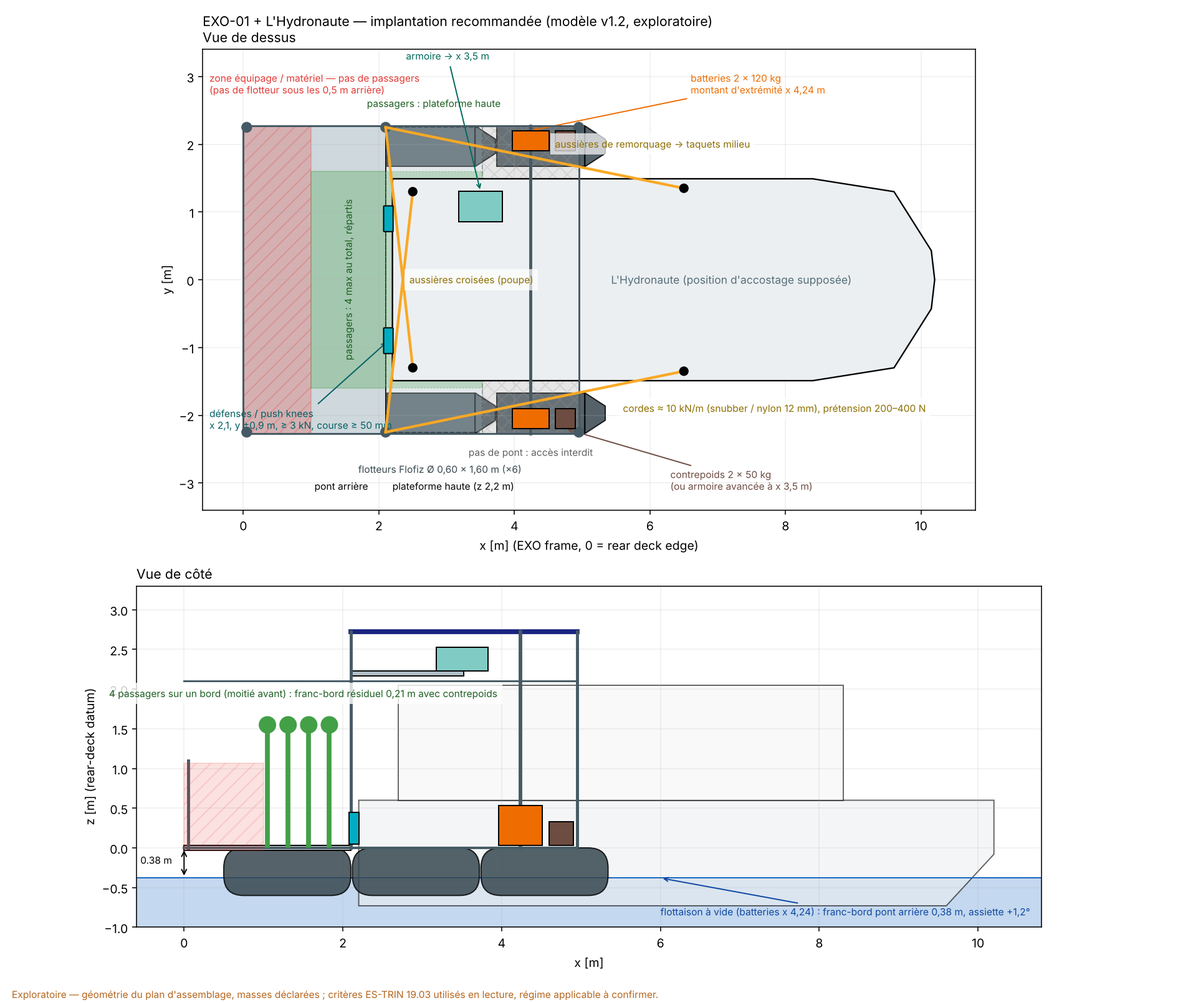
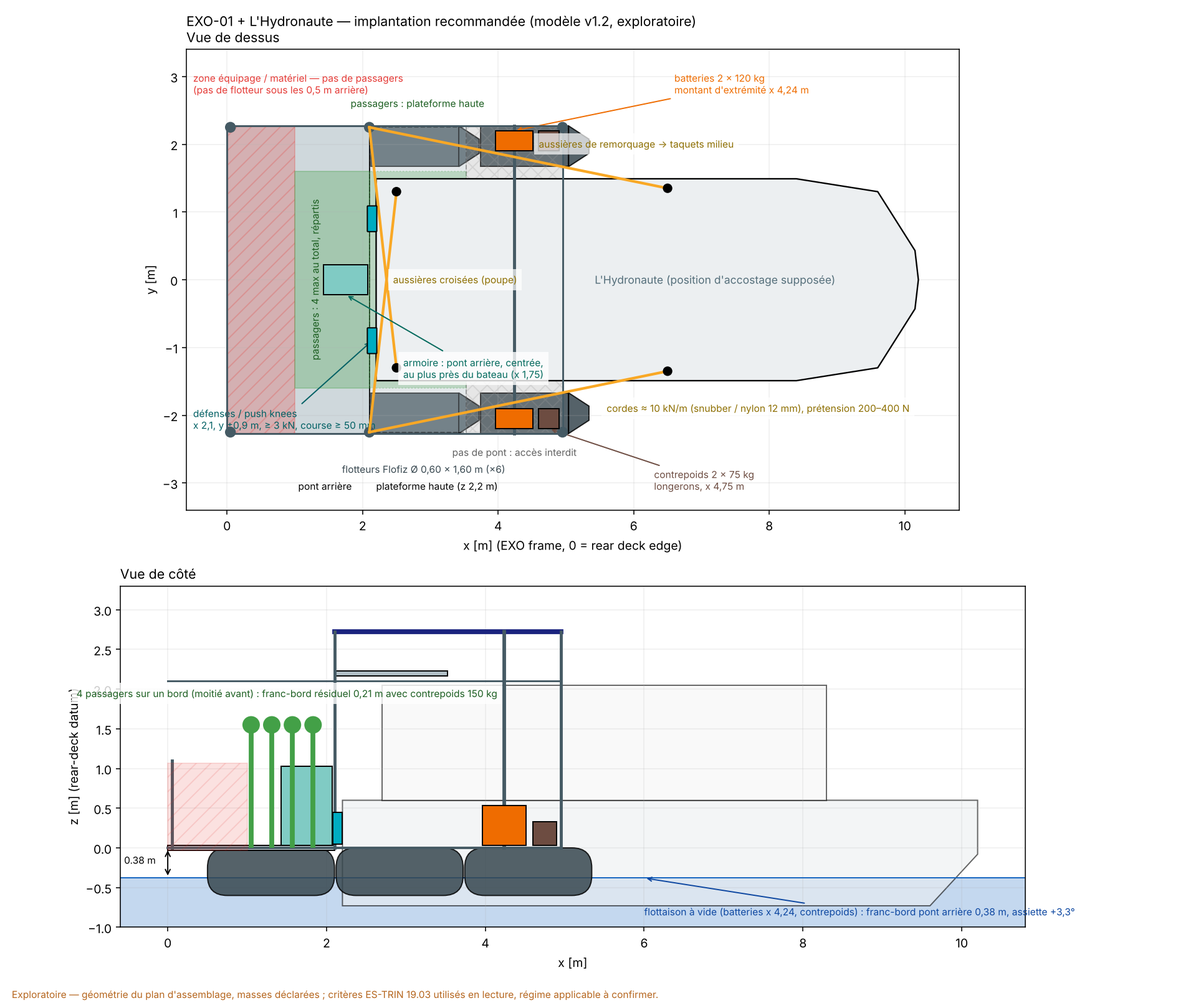
Layout: cabinet kept on the rear deck (centred, forward edge x 1.75); counterweight 2 x 75 kg -> 4 passengers >= 0.214 m
Claude-Session: https://claude.ai/code/session_01Dca2tFRhLZ7fJ291hADNnP

diff --git a/docs/website/preview.html b/docs/website/preview.html
@@ -82,7 +82,7 @@ figcaption { font-size: 13px; color: var(--muted); margin-top: 8px; max-width: 6
 <h3>5. Propulsion : ordre de grandeur seulement</h3>
 <p>À 100 % des deux pods, l'ensemble EXO-01 + L'Hydronaute atteindrait ≈ 2,8 m/s (10 km/h), avec 870 N transmis au bateau par les aussières. Ces vitesses sont des <strong>bornes supérieures</strong> : le modèle suppose la poussée au point fixe constante avec la vitesse, ce qui est faux pour un propulseur à hélice ; la courbe poussée–vitesse des pods n'est pas connue.</p>
 <h2>Implantation recommandée (v1.2) : aussières, défenses, zones passagers</h2>
-<figure><img alt="Implantation recommandée" src="img/14_layout_fr.webp" loading="lazy"><figcaption>Vue de dessus et de côté : défenses de poupe, aussières croisées et de remorquage, zone équipage à l'arrière, zone passagers, batteries au montant d'extrémité, contrepoids. Géométrie du plan d'assemblage, position d'accostage supposée.</figcaption></figure>
+<figure><img alt="Implantation recommandée" src="img/14_layout_fr.webp" loading="lazy"><figcaption>Vue de dessus et de côté : défenses de poupe, aussières croisées et de remorquage, zone équipage à l'arrière, zone passagers, armoire centrée au bord avant du pont arrière, batteries au montant d'extrémité, contrepoids. Géométrie du plan d'assemblage, position d'accostage supposée.</figcaption></figure>
 <p>L'étude d'amarrage (121 configurations : 6 arrangements × 4 raideurs × 5 prétensions + un cas rigide ; amarré, poussée 100 %, remorquage 100 % ; trois houles régulières, calcul linéaire puis domaine temporel) dit, dans ses hypothèses :</p>
 <ul>
 <li><strong>La poussée passe en compression.</strong> Deux défenses / push knees au bord du pont arrière (x 2,1 m, y ±0,9 m, hauteur du tableau) ferment la boucle poussée–remorquage quelle que soit la corde, avec 1–20 mm de course ; des aussières seules (diagonales) le font aussi, mais seulement à k ≥ 10 kN/m et avec 20–45 mm de glissement du bateau dans un espace de 60 mm. Charge statique par défense à pleine poussée : 0,3–0,6 kN.</li>
@@ -90,7 +90,7 @@ figcaption { font-size: 13px; color: var(--muted); margin-top: 8px; max-width: 6
 <li><strong>Raideur plutôt qu'« amortisseur » : ce que l'étude montre.</strong> Les éléments sont des ressorts sans amortissement ; les pics de reprise croissent avec la raideur de la corde (2 kN/m : 0,5–1,3 kN ; 10 kN/m : 0,6–1,5 kN ; 50 kN/m : 1,5–3 kN ; 200 kN/m : 3–5 kN dans la même houle), mais des cordes très souples laissent le bateau prendre de l'élan contre les défenses (2–5 kN). Direction : cordes ≈ 10 kN/m, défenses fermes ≈ 50 kN/m, prétension 200–400 N. Le choix d'un amortisseur réel demande un modèle avec amortissement, course et réaction maximale — étape suivante.</li>
 <li><strong>Dimensionnement indicatif</strong> : cordes 12 mm polyester/nylon avec snubbers (charge de travail 1–1,5 kN, pics 2–4,5 kN en 0,5 m de houle), taquets et montants ≥ 5 kN, défenses ≥ 3 kN avec ≥ 50 mm de course.</li>
 </ul>
-<p><strong>Zones passagers et capacité (EXO-01 seul, 75 kg par personne, lecture ES-TRIN 19.03 : gîte + vent ≤ 12°, franc-bord résiduel ≥ 0,20 m).</strong> La gîte n'est jamais limitante (8 personnes sur un bord : 4° ; vent 0,25 kN/m² sur 6 m² supposés : 0,7°). C'est le franc-bord du pont arrière qui limite : chaque passager enfonce la plateforme d'≈ 15 mm, plus l'assiette. Avec les batteries du plan, aucun passager ne satisfait le critère ; batteries avancées, 1–2 ; avec l'implantation ci-dessus — <strong>arrière du pont fermé aux passagers (pas de flotteur sous les 0,5 m arrière), batteries au montant d'extrémité, armoire avancée à x 3,5 m, contrepoids 2 × 50 kg à x 4,75 m</strong> — <strong>4 passagers</strong> n'importe où dans les zones autorisées gardent ≥ 0,216 m (6 répartis sur les deux ponts : 0,246 m). Contrepartie : +3,3° de piqué à vide et les flotteurs avant deviennent la limite si 4 personnes se mettent d'un même bord sur la plateforme haute (0,17 m). Sous le franc-bord minimal de 0,30 m de l'art. 19.04, aucune configuration ne dépasse 1 passager : le régime applicable (bateau à passagers, engin flottant, autre) change l'évaluation et reste à établir avec le service instructeur. Rien de tout cela ne remplace la pesée, l'essai de stabilité et le relevé des flotteurs.</p>
+<p><strong>Zones passagers et capacité (EXO-01 seul, 75 kg par personne, lecture ES-TRIN 19.03 : gîte + vent ≤ 12°, franc-bord résiduel ≥ 0,20 m).</strong> La gîte n'est jamais limitante (8 personnes sur un bord : 4° ; vent 0,25 kN/m² sur 6 m² supposés : 0,7°). C'est le franc-bord du pont arrière qui limite : chaque passager enfonce la plateforme d'≈ 15 mm, plus l'assiette. Avec les batteries du plan, aucun passager ne satisfait le critère ; batteries avancées, 1–2 ; avec l'implantation ci-dessus — <strong>arrière du pont fermé aux passagers (pas de flotteur sous les 0,5 m arrière), batteries au montant d'extrémité, armoire sur le pont arrière, centrée et au plus près du bateau (x 1,75 m), contrepoids 2 × 75 kg à x 4,75 m sur les longerons</strong> — <strong>4 passagers</strong> n'importe où dans les zones autorisées gardent ≥ 0,214 m (6 répartis sur les deux ponts : 0,245 m) ; 150 kg de lest, c'est le poids de deux passagers : plus de flottabilité arrière ferait mieux. Contrepartie : +3,3° de piqué à vide et les flotteurs avant deviennent la limite si 4 personnes se mettent d'un même bord sur la plateforme haute (0,17 m). Sous le franc-bord minimal de 0,30 m de l'art. 19.04, aucune configuration ne dépasse 1 passager : le régime applicable (bateau à passagers, engin flottant, autre) change l'évaluation et reste à établir avec le service instructeur. Rien de tout cela ne remplace la pesée, l'essai de stabilité et le relevé des flotteurs.</p>
 <h2>Ce que le modèle ne dit pas</h2>
 <ul>
 <li><strong>Les masses et leurs positions sont déclarées, pas pesées.</strong> Toute l'assiette repose sur le décalage de 0,6 m entre centre de masse et centre de flottabilité.</li>
@@ -156,7 +156,7 @@ figcaption { font-size: 13px; color: var(--muted); margin-top: 8px; max-width: 6
 <h3>5. Propulsion: order of magnitude only</h3>
 <p>At 100 % of both pods, EXO-01 + L'Hydronaute would reach ≈ 2.8 m/s (10 km/h), with 870 N carried to the boat through the lines. These speeds are <strong>upper bounds</strong>: the model assumes the bollard thrust stays constant with speed, which is false for a propeller; the pods' thrust–speed curve is not known.</p>
 <h2>Recommended layout (v1.2): lines, fenders, passenger zones</h2>
-<figure><img alt="Recommended layout" src="img/14_layout_en.webp" loading="lazy"><figcaption>Top and side view: stern fenders, crossed and tow lines, crew zone aft, passenger zone, batteries at the end upright, counterweight. Assembly-drawing geometry, assumed berth.</figcaption></figure>
+<figure><img alt="Recommended layout" src="img/14_layout_en.webp" loading="lazy"><figcaption>Top and side view: stern fenders, crossed and tow lines, crew zone aft, passenger zone, cabinet centred at the forward edge of the rear deck, batteries at the end upright, counterweight. Assembly-drawing geometry, assumed berth.</figcaption></figure>
 <p>The mooring study (121 configurations: 6 arrangements × 4 stiffnesses × 5 pretensions + one rigid case; moored, push 100 %, tow 100 %; three regular waves, linear then time domain) says, within its assumptions:</p>
 <ul>
 <li><strong>Push goes through compression.</strong> Two fenders / push knees at the rear-deck edge (x 2.1 m, y ±0.9 m, transom height) close the push–tow loop whatever the rope, with 1–20 mm of travel; lines alone (diagonals) do it too, but only at k ≥ 10 kN/m and with 20–45 mm of boat travel into a 60 mm gap. Static load per fender at full thrust: 0.3–0.6 kN.</li>
@@ -164,7 +164,7 @@ figcaption { font-size: 13px; color: var(--muted); margin-top: 8px; max-width: 6
 <li><strong>Compliance rather than "shock absorbers": what the study shows.</strong> The elements are undamped springs; snatch peaks grow with rope stiffness (2 kN/m: 0.5–1.3 kN; 10 kN/m: 0.6–1.5 kN; 50 kN/m: 1.5–3 kN; 200 kN/m: 3–5 kN in the same waves), but very soft lines let the boat gather speed into the fenders (2–5 kN). Direction: lines ≈ 10 kN/m, firm fenders ≈ 50 kN/m, pretension 200–400 N. Choosing an actual damper needs a model with damping, stroke and peak reaction — next step.</li>
 <li><strong>Indicative sizing</strong>: 12 mm polyester/nylon lines with snubbers (working load 1–1.5 kN, peaks 2–4.5 kN in 0.5 m waves), cleats and uprights ≥ 5 kN, fenders ≥ 3 kN with ≥ 50 mm stroke.</li>
 </ul>
-<p><strong>Passenger zones and capacity (EXO-01 alone, 75 kg per person, ES-TRIN 19.03 reading: heel + wind ≤ 12°, residual freeboard ≥ 0.20 m).</strong> Heel never limits (8 people on one side: 4°; wind 0.25 kN/m² on an assumed 6 m²: 0.7°). The rear-deck freeboard does: each passenger sinks the platform ≈ 15 mm, plus the trim. With the drawing's batteries no passenger meets the criterion; batteries forward, 1–2; with the layout above — <strong>aft of the rear deck closed to passengers (no float under the aft 0.5 m), batteries at the end upright, cabinet moved to x 3.5 m, 2 × 50 kg counterweight at x 4.75 m</strong> — <strong>4 passengers</strong> anywhere in the allowed zones keep ≥ 0.216 m (6 spread over both decks: 0.246 m). The price: +3.3° bow-down trim light, and the forward floats become the limit if 4 people crowd one side of the upper platform (0.17 m). Under the 0.30 m minimum freeboard of art. 19.04 no configuration exceeds 1 passenger: the applicable regime (passenger vessel, floating equipment, other) changes the assessment and has to be established with the service instructeur. None of this replaces the weighing, the inclining test and the float survey.</p>
+<p><strong>Passenger zones and capacity (EXO-01 alone, 75 kg per person, ES-TRIN 19.03 reading: heel + wind ≤ 12°, residual freeboard ≥ 0.20 m).</strong> Heel never limits (8 people on one side: 4°; wind 0.25 kN/m² on an assumed 6 m²: 0.7°). The rear-deck freeboard does: each passenger sinks the platform ≈ 15 mm, plus the trim. With the drawing's batteries no passenger meets the criterion; batteries forward, 1–2; with the layout above — <strong>aft of the rear deck closed to passengers (no float under the aft 0.5 m), batteries at the end upright, cabinet on the rear deck, centred and as close to the boat as possible (x 1.75 m), 2 × 75 kg counterweight at x 4.75 m on the side rails</strong> — <strong>4 passengers</strong> anywhere in the allowed zones keep ≥ 0.214 m (6 spread over both decks: 0.245 m); 150 kg of ballast is the weight of two passengers — more aft buoyancy would do better. The price: +3.3° bow-down trim light, and the forward floats become the limit if 4 people crowd one side of the upper platform (0.17 m). Under the 0.30 m minimum freeboard of art. 19.04 no configuration exceeds 1 passenger: the applicable regime (passenger vessel, floating equipment, other) changes the assessment and has to be established with the service instructeur. None of this replaces the weighing, the inclining test and the float survey.</p>
 <h2>What the model does not say</h2>
 <ul>
 <li><strong>Masses and positions are declared, not weighed.</strong> The whole trim story rests on the 0.6 m offset between centre of mass and centre of buoyancy.</li>

diff --git a/scripts/draw_layout.py b/scripts/draw_layout.py
@@ -18,16 +18,16 @@ OUT = ROOT / "docs" / "website" / "img"
 T = {
     "fr": dict(title="EXO-01 + L'Hydronaute — implantation recommandée (modèle v1.2, exploratoire)", top="Vue de dessus", side="Vue de côté",
                deck="pont arrière", upper="plateforme haute (z 2,2 m)", nodeck="pas de pont : accès interdit", crew="zone équipage / matériel — pas de passagers\n(pas de flotteur sous les 0,5 m arrière)",
-               pax_rear="passagers : 4 max au total, répartis", pax_upper="passagers : plateforme haute", batt="batteries 2 × 120 kg\nmontant d'extrémité x 4,24 m", cw="contrepoids 2 × 50 kg\n(ou armoire avancée à x 3,5 m)",
-               cab="armoire → x 3,5 m", fender="défenses / push knees\nx 2,1, y ±0,9 m, ≥ 3 kN, course ≥ 50 mm", cross="aussières croisées (poupe)", tow="aussières de remorquage → taquets milieu",
+               pax_rear="passagers : 4 max au total, répartis", pax_upper="passagers : plateforme haute", batt="batteries 2 × 120 kg\nmontant d'extrémité x 4,24 m", cw="contrepoids 2 × 75 kg\nlongerons, x 4,75 m",
+               cab="armoire : pont arrière, centrée,\nau plus près du bateau (x 1,75)", fender="défenses / push knees\nx 2,1, y ±0,9 m, ≥ 3 kN, course ≥ 50 mm", cross="aussières croisées (poupe)", tow="aussières de remorquage → taquets milieu",
                lines="cordes ≈ 10 kN/m (snubber / nylon 12 mm), prétension 200–400 N", boat="L'Hydronaute (position d'accostage supposée)", floats="flotteurs Flofiz Ø 0,60 × 1,60 m (×6)",
-               wl="flottaison à vide (batteries x 4,24) : franc-bord pont arrière 0,38 m, assiette +1,2°", pax4="4 passagers sur un bord (moitié avant) : franc-bord résiduel 0,21 m avec contrepoids", note="Exploratoire — géométrie du plan d'assemblage, masses déclarées ; critères ES-TRIN 19.03 utilisés en lecture, régime applicable à confirmer."),
+               wl="flottaison à vide (batteries x 4,24, contrepoids) : franc-bord pont arrière 0,38 m, assiette +3,3°", pax4="4 passagers sur un bord (moitié avant) : franc-bord résiduel 0,21 m avec contrepoids 150 kg", note="Exploratoire — géométrie du plan d'assemblage, masses déclarées ; critères ES-TRIN 19.03 utilisés en lecture, régime applicable à confirmer."),
     "en": dict(title="EXO-01 + L'Hydronaute — recommended layout (model v1.2, exploratory)", top="Top view", side="Side view",
                deck="rear deck", upper="upper platform (z 2.2 m)", nodeck="no deck: no access", crew="crew / equipment zone — no passengers\n(no float under the aft 0.5 m)",
-               pax_rear="passengers: 4 max in total, spread", pax_upper="passengers: upper platform", batt="batteries 2 × 120 kg\nend upright x 4.24 m", cw="counterweight 2 × 50 kg\n(or cabinet moved to x 3.5 m)",
-               cab="cabinet → x 3.5 m", fender="fenders / push knees\nx 2.1, y ±0.9 m, ≥ 3 kN, stroke ≥ 50 mm", cross="crossed stern lines", tow="tow lines → midship cleats",
+               pax_rear="passengers: 4 max in total, spread", pax_upper="passengers: upper platform", batt="batteries 2 × 120 kg\nend upright x 4.24 m", cw="counterweight 2 × 75 kg\nside rails, x 4.75 m",
+               cab="cabinet: rear deck, centred,\nas close to the boat as possible (x 1.75)", fender="fenders / push knees\nx 2.1, y ±0.9 m, ≥ 3 kN, stroke ≥ 50 mm", cross="crossed stern lines", tow="tow lines → midship cleats",
                lines="lines ≈ 10 kN/m (snubber / 12 mm nylon), pretension 200–400 N", boat="L'Hydronaute (assumed berth)", floats="Flofiz floats Ø 0.60 × 1.60 m (×6)",
-               wl="light-ship waterline (batteries x 4.24): rear-deck freeboard 0.38 m, trim +1.2°", pax4="4 passengers on one side (forward half): residual freeboard 0.21 m with counterweight", note="Exploratory — assembly-drawing geometry, declared masses; ES-TRIN 19.03 figures used as a reading grid, applicable regime to be confirmed."),
+               wl="light-ship waterline (batteries x 4.24, counterweight): rear-deck freeboard 0.38 m, trim +3.3°", pax4="4 passengers on one side (forward half): residual freeboard 0.21 m with 150 kg counterweight", note="Exploratory — assembly-drawing geometry, declared masses; ES-TRIN 19.03 figures used as a reading grid, applicable regime to be confirmed."),
 }
 BX = 2.2          # boat stern in the EXO frame
 C = dict(deck="#cfd8dc", upper="#b0bec5", float="#37474f", boat="#eceff1", pax="#43a047", crew="#e53935", nodeck="#9e9e9e", batt="#ef6c00", cw="#6d4c41", fender="#00acc1", line="#f9a825", frame="#455a64")
@@ -59,7 +59,7 @@ for lang, t in T.items():
     ax.add_patch(Rectangle((2.1, -1.6), 1.425, 3.2, facecolor=C["pax"], alpha=0.25, edgecolor=C["pax"], ls=":", zorder=1.6))
     ax.add_patch(Rectangle((3.525, -2.2485), 1.425, 4.497, facecolor=C["nodeck"], alpha=0.25, hatch="xx", edgecolor=C["nodeck"], zorder=1.5))
     ax.text(-0.5, 2.75, t["crew"], ha="left", fontsize=8, color=C["crew"], rotation=0)
-    ax.text(1.55, 0.0, t["pax_rear"], ha="center", va="center", fontsize=8, color="#1b5e20", zorder=4, rotation=90)
+    ax.text(1.3, 0.0, t["pax_rear"], ha="center", va="center", fontsize=8, color="#1b5e20", zorder=4, rotation=90)
     ax.text(2.81, 2.55, t["pax_upper"], ha="center", fontsize=8, color="#1b5e20")
     ax.text(4.24, -2.6, t["nodeck"], ha="center", fontsize=8, color="#616161")
     ax.text(1.05, -3.1, t["deck"], fontsize=8); ax.text(2.2, -3.1, t["upper"], fontsize=8)
@@ -75,8 +75,8 @@ for lang, t in T.items():
         ax.add_patch(Rectangle((4.75 - 0.15, y - 0.15), 0.30, 0.30, facecolor=C["cw"], edgecolor="k", zorder=6))
     ax.annotate(t["batt"], (4.24, 2.2), (6.6, 2.75), fontsize=8, color=C["batt"], arrowprops=dict(arrowstyle="->", color=C["batt"]))
     ax.annotate(t["cw"], (4.75, -2.2), (6.3, -3.1), fontsize=8, color=C["cw"], arrowprops=dict(arrowstyle="->", color=C["cw"]))
-    ax.add_patch(Rectangle((3.5 - 0.325, 1.08 - 0.225), 0.65, 0.45, facecolor="#80cbc4", edgecolor="k", zorder=6))
-    ax.annotate(t["cab"], (3.5, 1.3), (2.4, 3.25), fontsize=8, color="#00695c", arrowprops=dict(arrowstyle="->", color="#00695c"))
+    ax.add_patch(Rectangle((1.75 - 0.325, -0.225), 0.65, 0.45, facecolor="#80cbc4", edgecolor="k", zorder=6))
+    ax.annotate(t["cab"], (1.75, -0.22), (2.6, -1.45), fontsize=8, color="#00695c", arrowprops=dict(arrowstyle="->", color="#00695c"), bbox=dict(fc="white", ec="none", alpha=0.8), zorder=9)
     # fenders
     for y in (-0.9, 0.9):
         ax.add_patch(FancyBboxPatch((2.08, y - 0.18), 0.12, 0.36, boxstyle="round,pad=0.01", facecolor=C["fender"], edgecolor="k", zorder=7))
@@ -116,7 +116,7 @@ for lang, t in T.items():
     ax2.add_patch(Rectangle((2.08, 0.05), 0.12, 0.4, facecolor=C["fender"], edgecolor="k", zorder=5))
     ax2.add_patch(Rectangle((4.24 - 0.275, 0.03), 0.55, 0.5, facecolor=C["batt"], edgecolor="k", zorder=5))
     ax2.add_patch(Rectangle((4.75 - 0.15, 0.03), 0.30, 0.3, facecolor=C["cw"], edgecolor="k", zorder=5))
-    ax2.add_patch(Rectangle((3.5 - 0.325, 2.23), 0.65, 0.3, facecolor="#80cbc4", edgecolor="k", zorder=5))
+    ax2.add_patch(Rectangle((1.75 - 0.325, 0.03), 0.65, 1.0, facecolor="#80cbc4", edgecolor="k", zorder=5))
     for i in range(4):
         x = 1.05 + 0.26 * i
         ax2.add_patch(Circle((x, 1.55), 0.11, facecolor=C["pax"], zorder=6)); ax2.plot([x, x], [0.03, 1.44], color=C["pax"], lw=4, zorder=6)

diff --git a/docs/website/exo01-simulation.fr.md b/docs/website/exo01-simulation.fr.md
@@ -75,7 +75,7 @@ Avec 100 N de prétension, **toutes les aussières se détendent à chaque cycle
 ## Implantation recommandée (v1.2) : aussières, défenses, zones passagers
 
 ![Implantation recommandée](img/web/14_layout_fr.webp)
-*Vue de dessus et de côté : défenses de poupe, aussières croisées et de remorquage, zone équipage à l'arrière, zone passagers, batteries au montant d'extrémité, contrepoids. Géométrie du plan d'assemblage, position d'accostage supposée.*
+*Vue de dessus et de côté : défenses de poupe, aussières croisées et de remorquage, zone équipage à l'arrière, zone passagers, armoire centrée au bord avant du pont arrière, batteries au montant d'extrémité, contrepoids. Géométrie du plan d'assemblage, position d'accostage supposée.*
 
 L'étude d'amarrage (121 configurations : 6 arrangements × 4 raideurs × 5 prétensions + un cas rigide ; amarré, poussée 100 %, remorquage 100 % ; trois houles régulières, calcul linéaire puis domaine temporel) dit, dans ses hypothèses :
 
@@ -84,7 +84,7 @@ L'étude d'amarrage (121 configurations : 6 arrangements × 4 raideurs × 5 pré
 - **Raideur plutôt qu'« amortisseur » : ce que l'étude montre.** Les éléments sont des ressorts sans amortissement ; les pics de reprise croissent avec la raideur de la corde (2 kN/m : 0,5–1,3 kN ; 10 kN/m : 0,6–1,5 kN ; 50 kN/m : 1,5–3 kN ; 200 kN/m : 3–5 kN dans la même houle), mais des cordes très souples laissent le bateau prendre de l'élan contre les défenses (2–5 kN). Direction : cordes ≈ 10 kN/m, défenses fermes ≈ 50 kN/m, prétension 200–400 N. Le choix d'un amortisseur réel demande un modèle avec amortissement, course et réaction maximale — étape suivante.
 - **Dimensionnement indicatif** : cordes 12 mm polyester/nylon avec snubbers (charge de travail 1–1,5 kN, pics 2–4,5 kN en 0,5 m de houle), taquets et montants ≥ 5 kN, défenses ≥ 3 kN avec ≥ 50 mm de course.
 
-**Zones passagers et capacité (EXO-01 seul, 75 kg par personne, lecture ES-TRIN 19.03 : gîte + vent ≤ 12°, franc-bord résiduel ≥ 0,20 m).** La gîte n'est jamais limitante (8 personnes sur un bord : 4° ; vent 0,25 kN/m² sur 6 m² supposés : 0,7°). C'est le franc-bord du pont arrière qui limite : chaque passager enfonce la plateforme d'≈ 15 mm, plus l'assiette. Avec les batteries du plan, aucun passager ne satisfait le critère ; batteries avancées, 1–2 ; avec l'implantation ci-dessus — **arrière du pont fermé aux passagers (pas de flotteur sous les 0,5 m arrière), batteries au montant d'extrémité, armoire avancée à x 3,5 m, contrepoids 2 × 50 kg à x 4,75 m** — **4 passagers** n'importe où dans les zones autorisées gardent ≥ 0,216 m (6 répartis sur les deux ponts : 0,246 m). Contrepartie : +3,3° de piqué à vide et les flotteurs avant deviennent la limite si 4 personnes se mettent d'un même bord sur la plateforme haute (0,17 m). Sous le franc-bord minimal de 0,30 m de l'art. 19.04, aucune configuration ne dépasse 1 passager : le régime applicable (bateau à passagers, engin flottant, autre) change l'évaluation et reste à établir avec le service instructeur. Rien de tout cela ne remplace la pesée, l'essai de stabilité et le relevé des flotteurs.
+**Zones passagers et capacité (EXO-01 seul, 75 kg par personne, lecture ES-TRIN 19.03 : gîte + vent ≤ 12°, franc-bord résiduel ≥ 0,20 m).** La gîte n'est jamais limitante (8 personnes sur un bord : 4° ; vent 0,25 kN/m² sur 6 m² supposés : 0,7°). C'est le franc-bord du pont arrière qui limite : chaque passager enfonce la plateforme d'≈ 15 mm, plus l'assiette. Avec les batteries du plan, aucun passager ne satisfait le critère ; batteries avancées, 1–2 ; avec l'implantation ci-dessus — **arrière du pont fermé aux passagers (pas de flotteur sous les 0,5 m arrière), batteries au montant d'extrémité, armoire sur le pont arrière, centrée et au plus près du bateau (x 1,75 m), contrepoids 2 × 75 kg à x 4,75 m sur les longerons** — **4 passagers** n'importe où dans les zones autorisées gardent ≥ 0,214 m (6 répartis sur les deux ponts : 0,245 m) ; 150 kg de lest, c'est le poids de deux passagers : plus de flottabilité arrière ferait mieux. Contrepartie : +3,3° de piqué à vide et les flotteurs avant deviennent la limite si 4 personnes se mettent d'un même bord sur la plateforme haute (0,17 m). Sous le franc-bord minimal de 0,30 m de l'art. 19.04, aucune configuration ne dépasse 1 passager : le régime applicable (bateau à passagers, engin flottant, autre) change l'évaluation et reste à établir avec le service instructeur. Rien de tout cela ne remplace la pesée, l'essai de stabilité et le relevé des flotteurs.
 
 ## Ce que le modèle ne dit pas
 

diff --git a/docs/website/exo01-simulation.en.md b/docs/website/exo01-simulation.en.md
@@ -75,7 +75,7 @@ At 100 % of both pods, EXO-01 + L'Hydronaute would reach ≈ 2.8 m/s (10 km/h), 
 ## Recommended layout (v1.2): lines, fenders, passenger zones
 
 ![Recommended layout](img/web/14_layout_en.webp)
-*Top and side view: stern fenders, crossed and tow lines, crew zone aft, passenger zone, batteries at the end upright, counterweight. Assembly-drawing geometry, assumed berth.*
+*Top and side view: stern fenders, crossed and tow lines, crew zone aft, passenger zone, cabinet centred at the forward edge of the rear deck, batteries at the end upright, counterweight. Assembly-drawing geometry, assumed berth.*
 
 The mooring study (121 configurations: 6 arrangements × 4 stiffnesses × 5 pretensions + one rigid case; moored, push 100 %, tow 100 %; three regular waves, linear then time domain) says, within its assumptions:
 
@@ -84,7 +84,7 @@ The mooring study (121 configurations: 6 arrangements × 4 stiffnesses × 5 pret
 - **Compliance rather than "shock absorbers": what the study shows.** The elements are undamped springs; snatch peaks grow with rope stiffness (2 kN/m: 0.5–1.3 kN; 10 kN/m: 0.6–1.5 kN; 50 kN/m: 1.5–3 kN; 200 kN/m: 3–5 kN in the same waves), but very soft lines let the boat gather speed into the fenders (2–5 kN). Direction: lines ≈ 10 kN/m, firm fenders ≈ 50 kN/m, pretension 200–400 N. Choosing an actual damper needs a model with damping, stroke and peak reaction — next step.
 - **Indicative sizing**: 12 mm polyester/nylon lines with snubbers (working load 1–1.5 kN, peaks 2–4.5 kN in 0.5 m waves), cleats and uprights ≥ 5 kN, fenders ≥ 3 kN with ≥ 50 mm stroke.
 
-**Passenger zones and capacity (EXO-01 alone, 75 kg per person, ES-TRIN 19.03 reading: heel + wind ≤ 12°, residual freeboard ≥ 0.20 m).** Heel never limits (8 people on one side: 4°; wind 0.25 kN/m² on an assumed 6 m²: 0.7°). The rear-deck freeboard does: each passenger sinks the platform ≈ 15 mm, plus the trim. With the drawing's batteries no passenger meets the criterion; batteries forward, 1–2; with the layout above — **aft of the rear deck closed to passengers (no float under the aft 0.5 m), batteries at the end upright, cabinet moved to x 3.5 m, 2 × 50 kg counterweight at x 4.75 m** — **4 passengers** anywhere in the allowed zones keep ≥ 0.216 m (6 spread over both decks: 0.246 m). The price: +3.3° bow-down trim light, and the forward floats become the limit if 4 people crowd one side of the upper platform (0.17 m). Under the 0.30 m minimum freeboard of art. 19.04 no configuration exceeds 1 passenger: the applicable regime (passenger vessel, floating equipment, other) changes the assessment and has to be established with the service instructeur. None of this replaces the weighing, the inclining test and the float survey.
+**Passenger zones and capacity (EXO-01 alone, 75 kg per person, ES-TRIN 19.03 reading: heel + wind ≤ 12°, residual freeboard ≥ 0.20 m).** Heel never limits (8 people on one side: 4°; wind 0.25 kN/m² on an assumed 6 m²: 0.7°). The rear-deck freeboard does: each passenger sinks the platform ≈ 15 mm, plus the trim. With the drawing's batteries no passenger meets the criterion; batteries forward, 1–2; with the layout above — **aft of the rear deck closed to passengers (no float under the aft 0.5 m), batteries at the end upright, cabinet on the rear deck, centred and as close to the boat as possible (x 1.75 m), 2 × 75 kg counterweight at x 4.75 m on the side rails** — **4 passengers** anywhere in the allowed zones keep ≥ 0.214 m (6 spread over both decks: 0.245 m); 150 kg of ballast is the weight of two passengers — more aft buoyancy would do better. The price: +3.3° bow-down trim light, and the forward floats become the limit if 4 people crowd one side of the upper platform (0.17 m). Under the 0.30 m minimum freeboard of art. 19.04 no configuration exceeds 1 passenger: the applicable regime (passenger vessel, floating equipment, other) changes the assessment and has to be established with the service instructeur. None of this replaces the weighing, the inclining test and the float survey.
 
 ## What the model does not say
 

diff --git a/docs/MOORING.md b/docs/MOORING.md
@@ -117,10 +117,10 @@ service instructeur, and it changes the assessment — the tables give the input
   **1–2** with the batteries forward (limited by two people in the stern corner), 10 if everyone stays on the upper deck.
   Under the 0.30 m minimum freeboard of 19.04: 0–1 passenger in every configuration.
 * **Zoning + counterweight (recommended layout, `results/stability/recommended_layout_cases.json`)**: aft 1.0 m of the rear deck
-  closed to passengers (no float under the aft 0.5 m), batteries at the end frame (x 4.24), cabinet moved to x 3.5, 2 × 50 kg
-  counterweight at x 4.75 on the side rails → **4 passengers anywhere in the allowed zones keep ≥ 0.216 m** (4 on one side of the
-  forward half: 0.216 m; 6 spread over both decks: 0.246 m); light ship then trims +3.3° bow-down with 0.30 m forward float-top
-  freeboard, and 4 people on one side of the upper deck bring the forward float tops to 0.17 m — the forward floats become the
+  closed to passengers (no float under the aft 0.5 m), batteries at the end frame (x 4.24), cabinet on the rear deck centred at its
+  forward edge (x 1.75, y 0 — it cannot go elsewhere), 2 × 75 kg counterweight at x 4.75 on the side rails → **4 passengers anywhere in
+  the allowed zones keep ≥ 0.214 m** (4 on one side of the forward half: 0.214 m; 6 spread over both decks: 0.245 m; 100 kg of
+  counterweight gives 0.197 m, just short); light ship then trims +3.3° bow-down with 0.29 m forward float-top freeboard, and 4 people on one side of the upper deck bring the forward float tops to 0.17 m — the forward floats become the
   limit. A counterweight does not add freeboard (it sinks the platform ≈ 15 mm per 100 kg); it works through the trim lever.
 * Deck-edge-awash regular wave height, light ship (no crew), batteries forward: ≈ 0.27 m at T 2.0 s, 0.46 m at T 2.5 s, 0.68 m at
   T 3 s (linear, 5 % damping, worst heading, BEM of a nearby pose reused — the short-period values are resonance-driven and need
